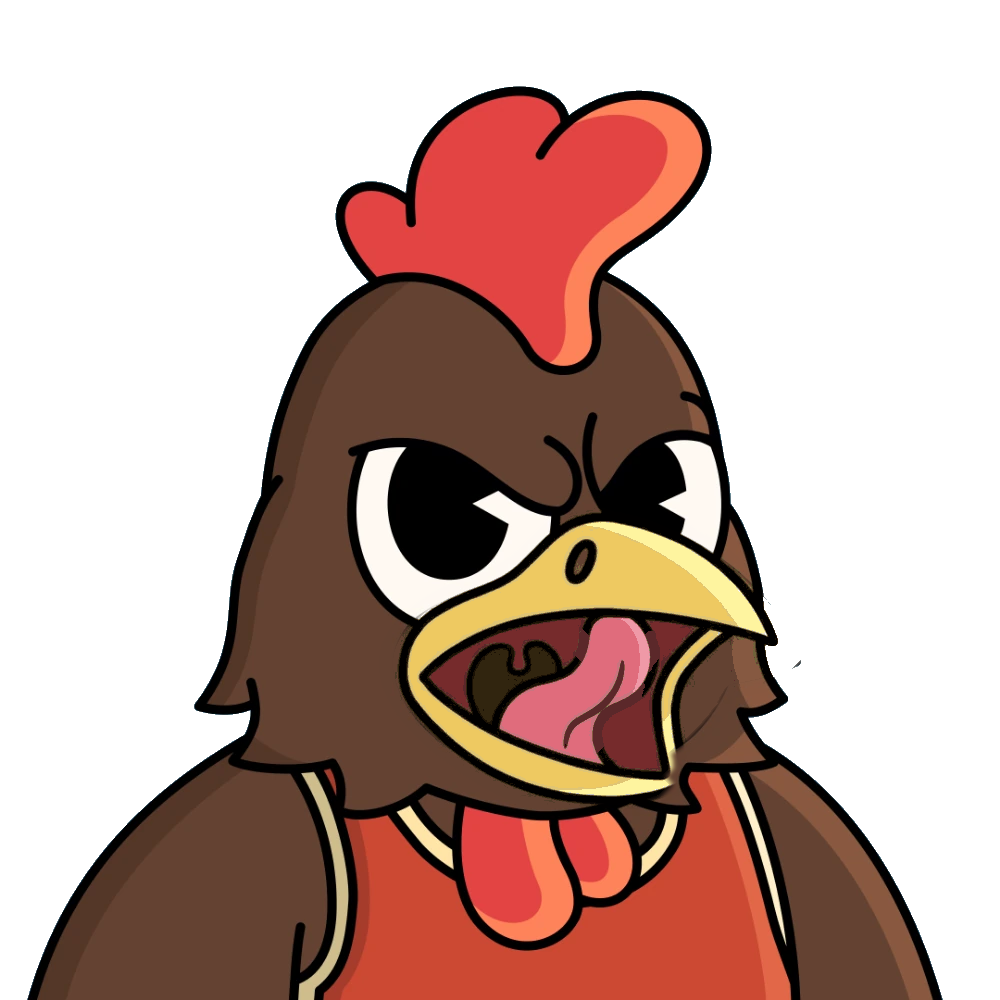
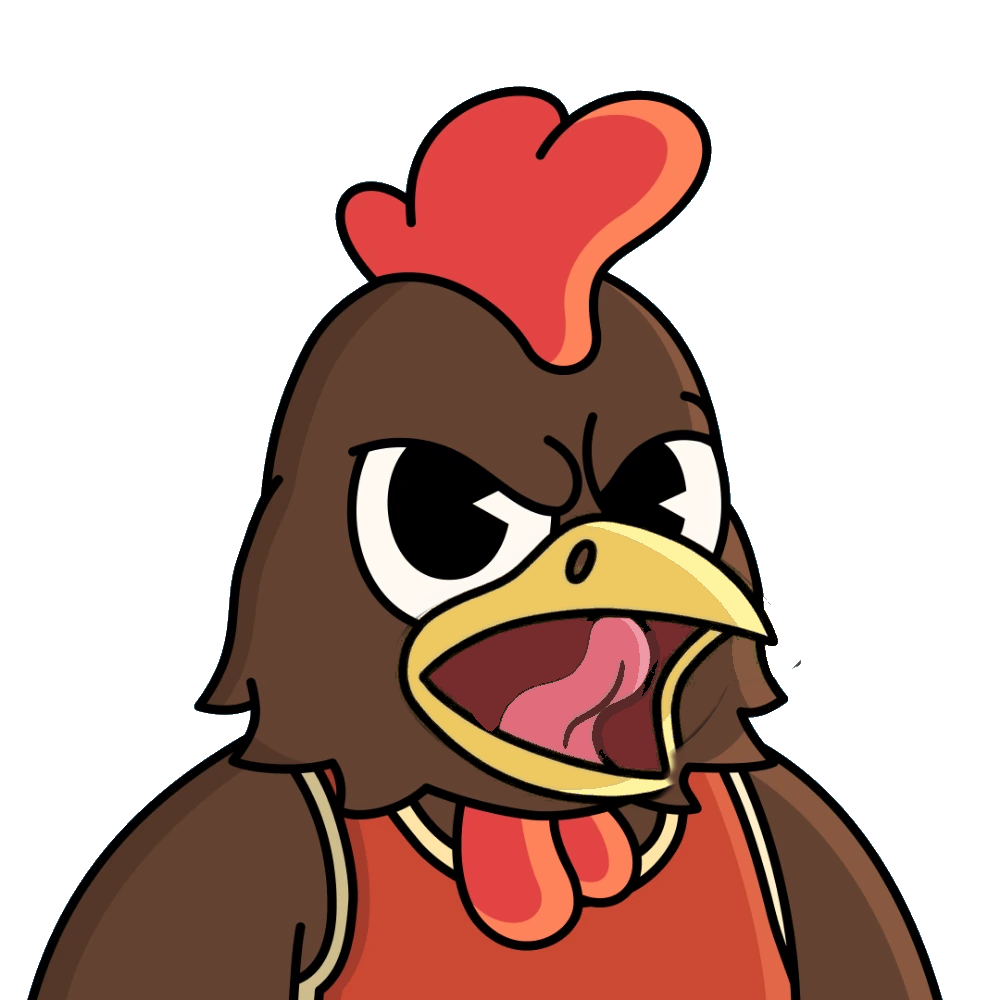
Cock L mouth: the brown throat blob from the edit is the mouth's own red; art version bump (beta and live)
Claude-Session: https://claude.ai/code/session_01AAjfD4JXrwKrGtAMJHTTVa

Changed region(s): [[0.465, 0.62, 0.589, 0.744]]

diff --git a/beta/index.html b/beta/index.html
@@ -490,7 +490,7 @@ header .credit b{font-weight:400}
 // ---------------------------------------------------------------------------
 const MP_VERSION = '0.10.14';
 const CODE = document.documentElement.dataset.code || '';   // (the beta copy keeps its own code in beta/; art and data are shared)
-const ART_V = '20261121-0040';   // bump when art changes, so phones never show old cached frames
+const ART_V = '20261121-0050';   // bump when art changes, so phones never show old cached frames
 const MP_MODEL = 'https://storage.googleapis.com/mediapipe-models/face_landmarker/face_landmarker/float16/1/face_landmarker.task';
 
 // Each Nibble: eye layers e0–e4 and ten whole-face mouth frames m0–m9, all lined up at 1000×1000.

diff --git a/index.html b/index.html
@@ -489,7 +489,7 @@ header .credit b{font-weight:400}
 // ---------------------------------------------------------------------------
 const MP_VERSION = '0.10.14';
 const CODE = document.documentElement.dataset.code || '';   // (the beta copy keeps its own code in beta/; art and data are shared)
-const ART_V = '20261121-0040';   // bump when art changes, so phones never show old cached frames
+const ART_V = '20261121-0050';   // bump when art changes, so phones never show old cached frames
 const MP_MODEL = 'https://storage.googleapis.com/mediapipe-models/face_landmarker/face_landmarker/float16/1/face_landmarker.task';
 
 // Each Nibble: eye layers e0–e4 and ten whole-face mouth frames m0–m9, all lined up at 1000×1000.
